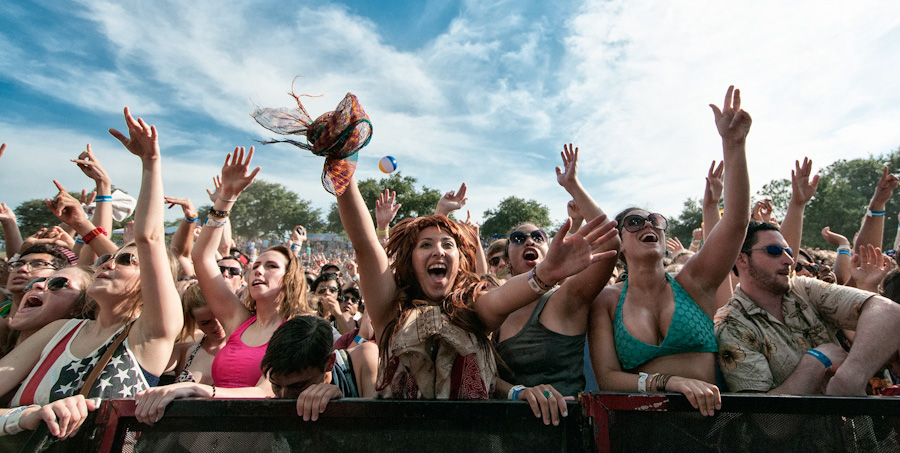
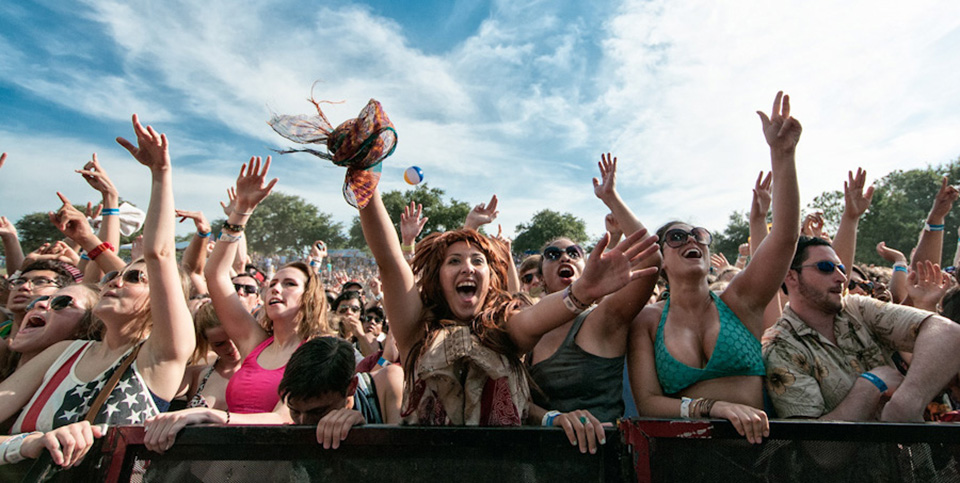
Responsiveness

diff --git a/css/main.css b/css/main.css
@@ -15,10 +15,8 @@ article, aside, footer, header, nav, section {
 
 body {
 	background: #edeae1 url(../images/background.jpg) fixed;
-	text-align: center;
-	font: 100% helvetica sans-serif;
-	margin: 0;
-	padding: 0;
+	max-width: 960px;
+	margin: 36px auto;
 }
 
 ul{
@@ -33,9 +31,8 @@ em{
 }
 
 #wrapper {
-	width: 960px;
+	width: 100%;
 	margin: 0 auto;
-	padding: 0 50px;
 	text-align: left;
 	position: relative;
 }
@@ -64,6 +61,7 @@ header#mainheader nav h1{;
 	position: absolute;
 	left: -2000em;
 }
+
 
 header#mainheader img {
 	float: left;
@@ -95,13 +93,18 @@ header#mainheader ul li a:hover{
 
 /*-edm_scene-*/
 
+
+
+
 section#edm_scene {
+	width: 100%;
 	float: none;
 	display: block;
-	margin-top: 50px; 
+	margin-top: 50px 50px; 
 }
 
 section#edm_scene header {
+	text-align: center;
 	font-family: 'Coda Caption' , sans-serif;
 	font-size: 2em;
 	color: #82c673;
@@ -110,7 +113,18 @@ section#edm_scene header {
 	
 }
 
+#header_container {
+	border: #8B725E solid 5px; 
+	max-width: 95%;/*960px/960px*/
+	margin: 0px 0px 20px 20px;
+}
+
+#header_container img {
+	max-width: 100%;
+}
+
 section#edm_scene article {
+	margin: 20px;
 	background: rgba(130, 198, 115, .2);
 	border: solid 2px #d87a92;
 	-webkit-border-radius: 10px;
@@ -127,7 +141,6 @@ section#edm_scene article p {
 
 section#edm_scene img {
 	display: block;
-	border: solid 2px #d87a92;
 	margin: 0px auto 10px;
 	padding: 0 auto;
 }
@@ -152,15 +165,17 @@ section#photo_gallery header{
 }
 
 section#photo_gallery img {
-	border: #8B725E solid 5px; 
+	border: #8B725E solid 5px;
+	width: 250px; 
 	float: left;
 	margin: 2px;
 	padding: 5px 5px 7px -20px;
-	width: 250px;
+	width: 41.67%;/*250px/600px*/
+	max-width: 100%;
 }
 
 
-/*about_us_sction*/
+/*about_us_section*/
 
 aside#about_us_section {
 	display: block;

diff --git a/index.html b/index.html
@@ -30,7 +30,7 @@
   	<section id="edm_scene">
   		<header>
   		<h1>The Electronic Music Scene</h1>
-  		<img src="images/header.jpg" title="festival_crowd">
+  		<div id="header_container"><img src="images/header.jpg" title="festival_crowd"></div>  
   		</header>
   		<article>
   		<p>The electronic music scene has blown up over the last 5-10 years. While raves were a thing of the late 90s and early 2k they have turned from 200 crowd shows to festivals dedicating themselves to a crowd of more than <strong>70,000!</strong></p>
